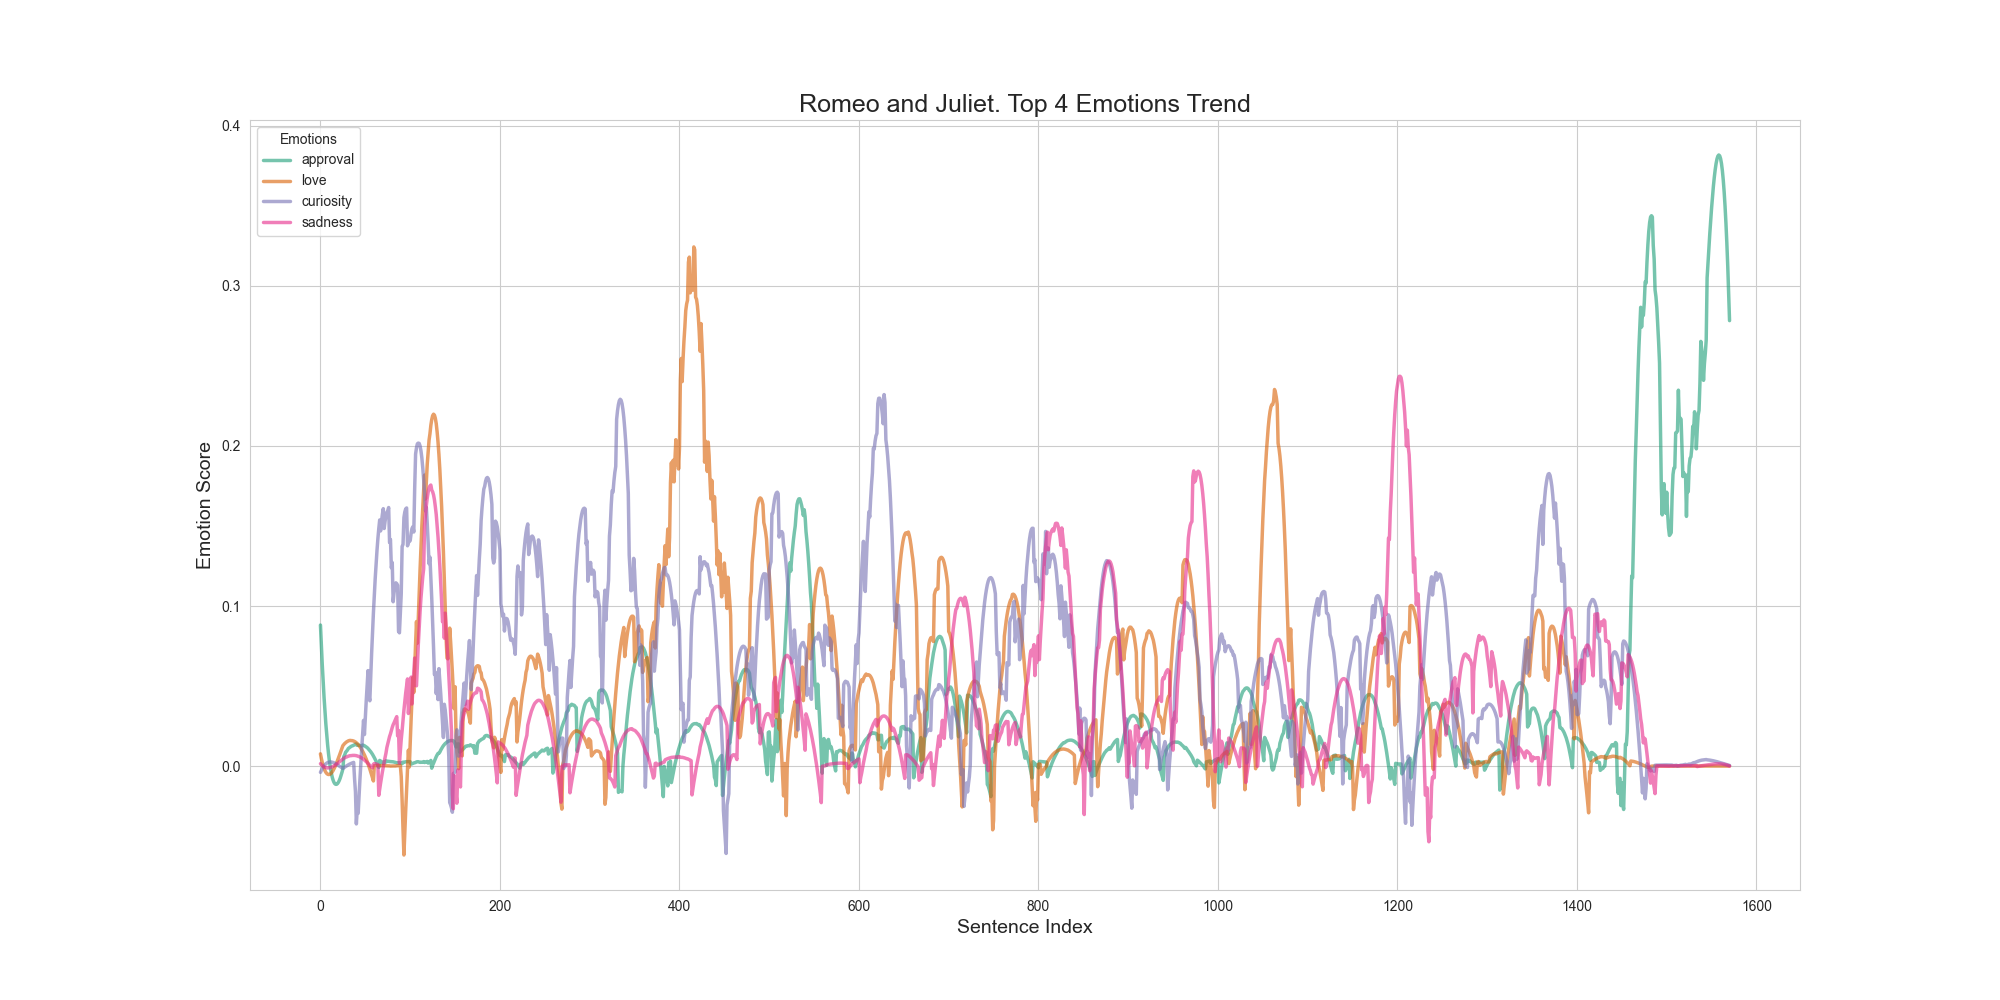
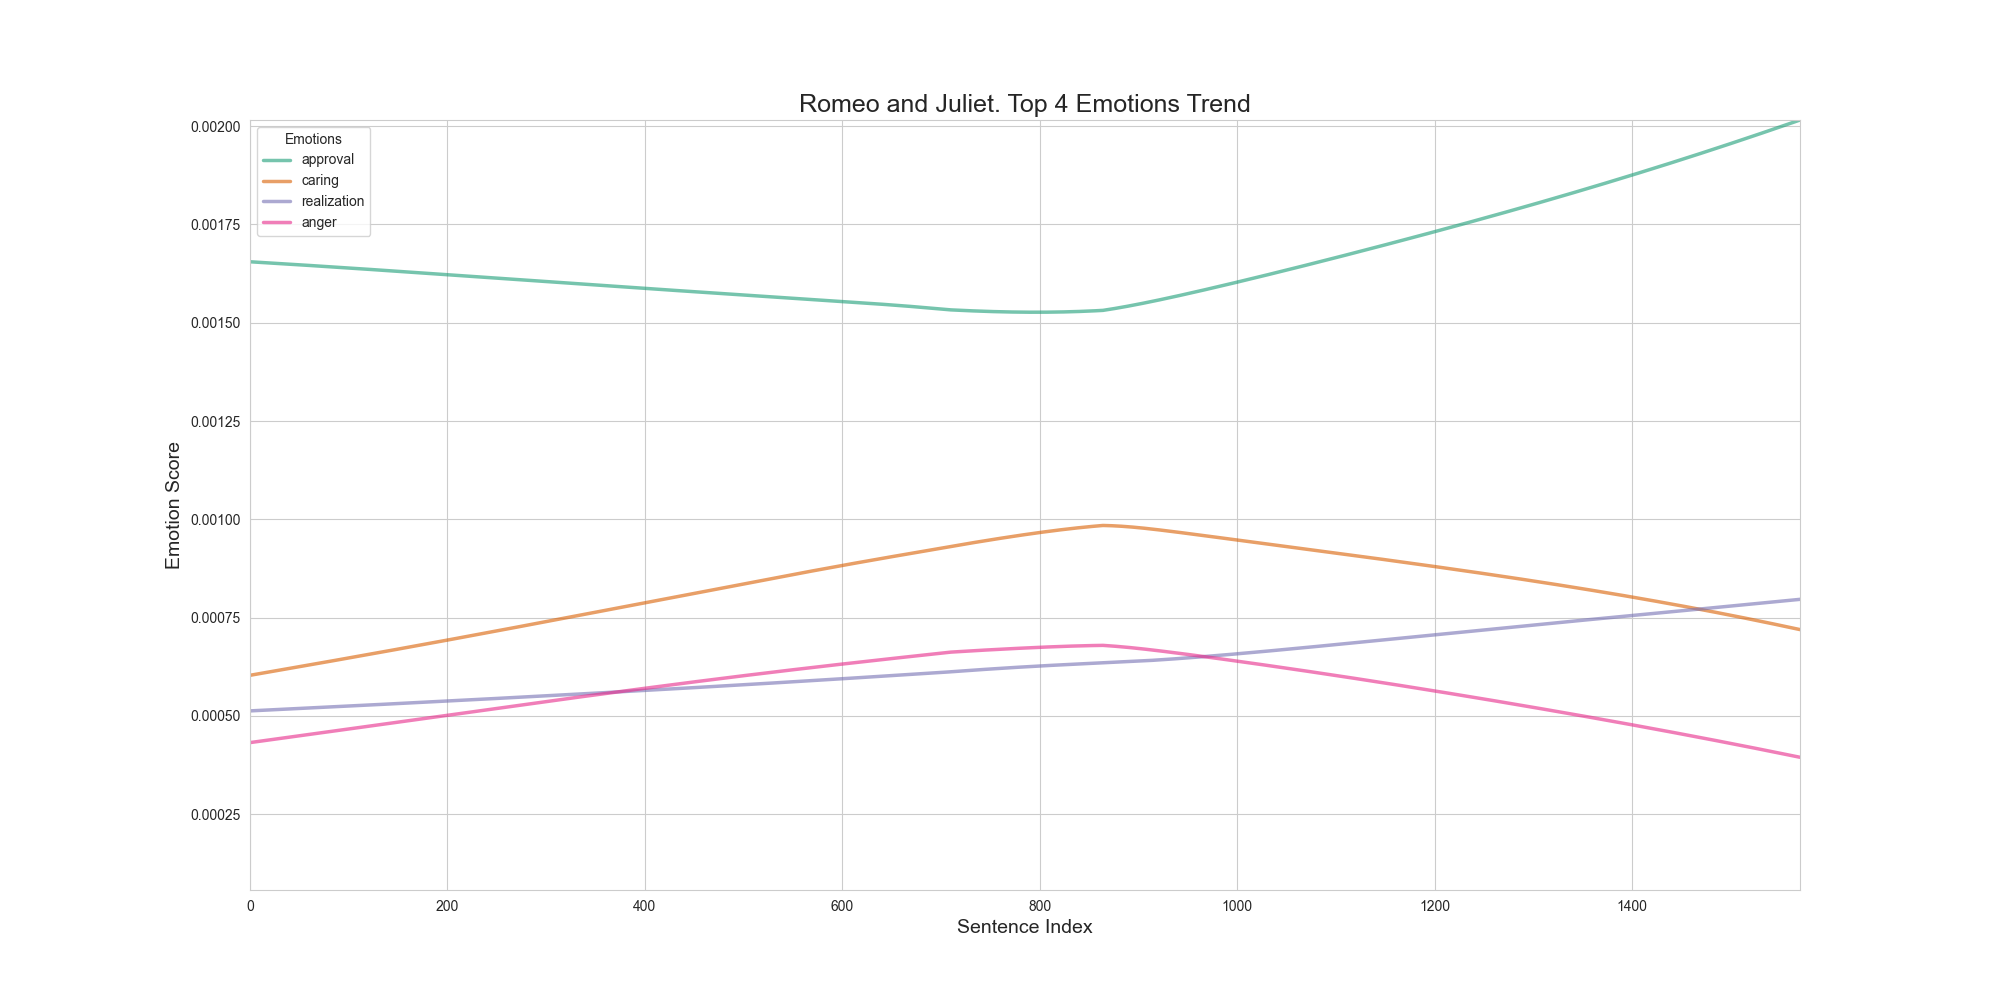
Add files via upload

diff --git a/show.py b/show.py
@@ -1,28 +1,37 @@
 import pandas as pd
-from scipy.signal import savgol_filter
 import matplotlib.pyplot as plt
 import seaborn as sns
 import numpy as np
-
+from statsmodels.nonparametric.smoothers_lowess import lowess
 
 file_path = "romeo_and_juliet.csv"
 df = pd.read_csv(file_path)
 df = df.drop(columns=["neutral"])
+
+# Apply Lowess smoothing to each column
 for col in df.columns:
-    df[col] = savgol_filter(df[col], 51, 3)
+    smoothed = lowess(df[col], np.arange(len(df[col])), frac=0.9)[:, 1]
+    df[col] = smoothed
 
 sns.set_style("whitegrid")
 emotions = df.columns[1:]
 palette = sns.color_palette("husl", len(emotions))
 fig, axs = plt.subplots(len(emotions), 1, figsize=(12, 4 * len(emotions)))
+
+# Calculate the global x-axis and y-axis limits
+global_xlim = (0, len(df) - 1)
+global_ylim = (df[emotions].min().min(), df[emotions].max().max())
+
 for ax, emotion, color in zip(axs, emotions, palette):
     ax.plot(df[emotion], color=color)
     ax.set_title(emotion, fontsize=16)
     ax.set_xlabel('Sentence Index', fontsize=14)
     ax.set_ylabel('Emotion Score', fontsize=14)
+    ax.set_xlim(global_xlim)
+    ax.set_ylim(global_ylim)
+
 plt.tight_layout()
 plt.savefig(file_path.replace(".csv", "_tight_plot.png"))
-
 
 N = 4
 variances = df.var().sort_values(ascending=False)
@@ -35,4 +44,6 @@ plt.title('Romeo and Juliet. Top {} Emotions Trend'.format(N), fontsize=18)
 plt.xlabel('Sentence Index', fontsize=14)
 plt.ylabel('Emotion Score', fontsize=14)
 plt.legend(loc='upper left', title="Emotions")
+plt.xlim(global_xlim)
+plt.ylim(global_ylim)
 plt.savefig(file_path.replace(".csv", "_join_plot.png"))
